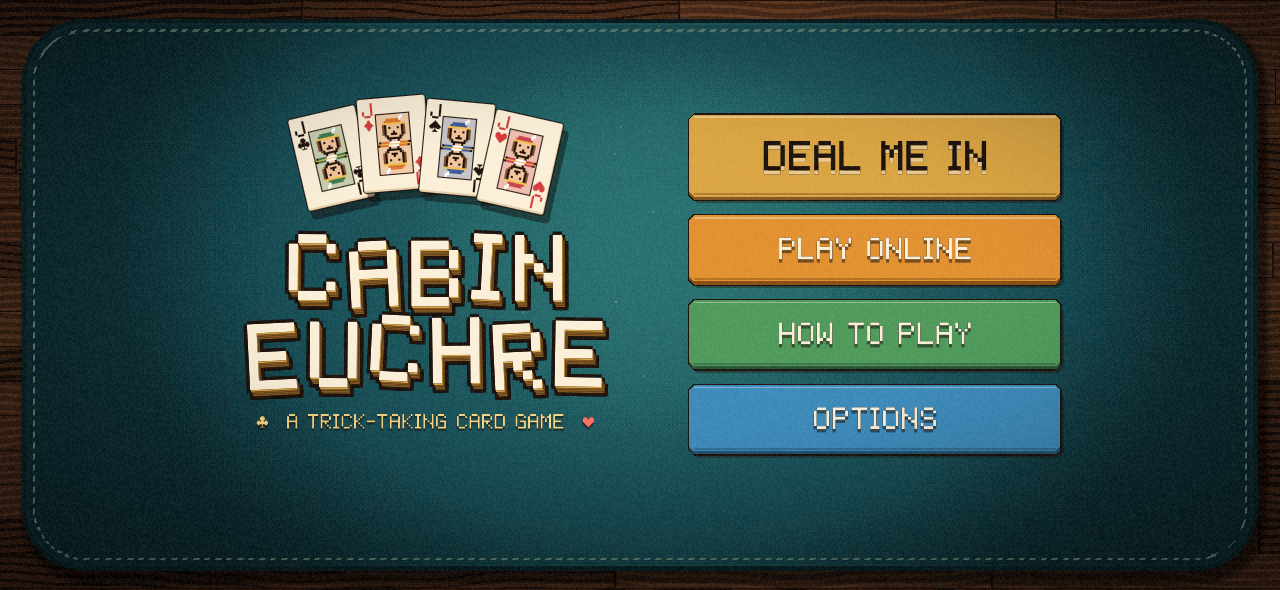
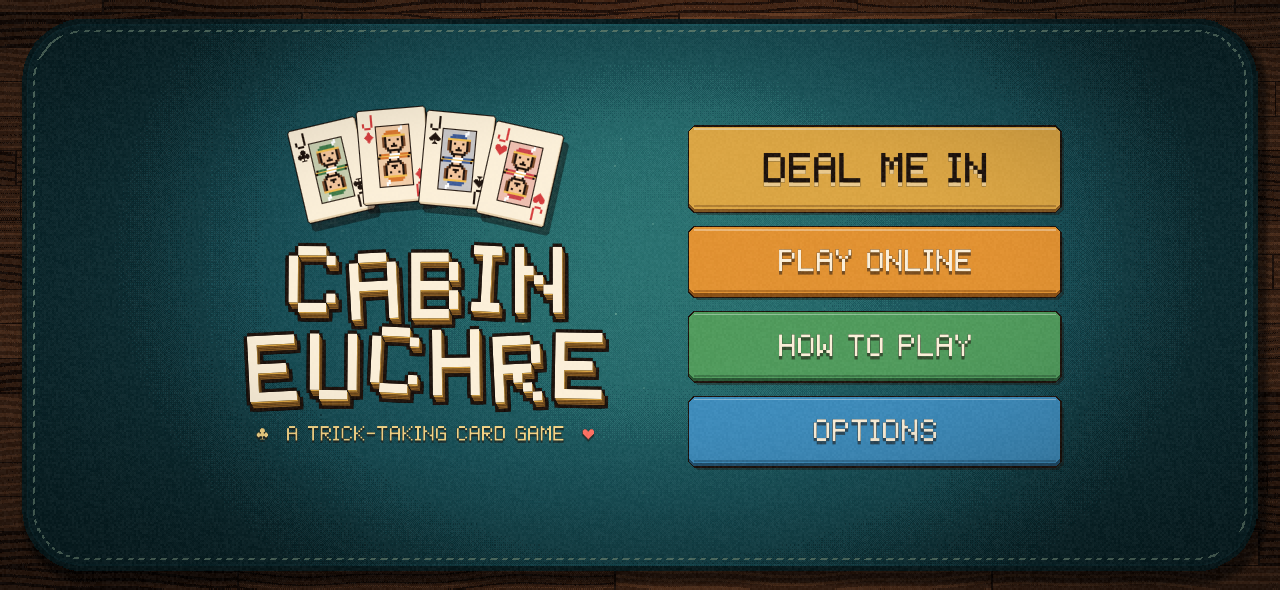
fix(mobile): center the view when no bottom bar is showing
Android always sets aside 24 dp for its gesture bar, which also pushed everything
above the screen's center. The reserved space now only sets the size and bounds,
and the view centers in what's really clear, gliding up if a bar appears. Retake
the phone and tablet screenshots without a pretend bar.

diff --git a/src/render.rs b/src/render.rs
@@ -83,16 +83,27 @@ impl View {
         View { offset, scale, visible: DESIGN_RECT }
     }
 
-    /// Phone: 640x360 as large as it fits inside the margins, with the canvas
-    /// covering the whole screen.
-    fn fit_safe(window_w: f32, window_h: f32, m: Margins) -> (Self, Rect) {
-        let Margins { side, top, bottom } = m;
+    /// Phone: how large 640x360 can be inside the margins. `reserved` includes
+    /// space for bars that aren't showing yet, so the size never changes when they do.
+    fn safe_scale(window_w: f32, window_h: f32, reserved: Margins) -> f32 {
+        let Margins { side, top, bottom } = reserved;
         let (usable_w, usable_h) = ((window_w - side * 2.0).max(1.0), (window_h - top - bottom).max(1.0));
-        let scale = (usable_w / VIEW_W as f32).min(usable_h / VIEW_H as f32);
-        let offset = vec2(
-            ((window_w - VIEW_W as f32 * scale) / 2.0).floor(),
-            (top + (usable_h - VIEW_H as f32 * scale) / 2.0).floor(),
-        );
+        (usable_w / VIEW_W as f32).min(usable_h / VIEW_H as f32)
+    }
+
+    /// Phone: where the top of 640x360 goes: centered in the space that's really
+    /// clear right now, so with no bar showing it's centered on the screen.
+    fn safe_y(window_h: f32, clear: Margins, scale: f32) -> f32 {
+        let usable_h = (window_h - clear.top - clear.bottom).max(1.0);
+        (clear.top + (usable_h - VIEW_H as f32 * scale) / 2.0).floor()
+    }
+
+    /// Phone: the design space at this scale and height, with the canvas covering
+    /// the whole screen. The returned bounds stay out of the `reserved` margins.
+    fn placed(window_w: f32, window_h: f32, reserved: Margins, scale: f32, y: f32) -> (Self, Rect) {
+        let Margins { side, top, bottom } = reserved;
+        let (usable_w, usable_h) = ((window_w - side * 2.0).max(1.0), (window_h - top - bottom).max(1.0));
+        let offset = vec2(((window_w - VIEW_W as f32 * scale) / 2.0).floor(), y);
         let visible = Rect::new(-offset.x / scale, -offset.y / scale, window_w / scale, window_h / scale);
         let bounds = Rect::new((side - offset.x) / scale, (top - offset.y) / scale, usable_w / scale, usable_h / scale);
         (View { offset, scale, visible }, bounds)
@@ -139,9 +150,14 @@ impl Margins {
 }
 
 /// Android's gesture bar comes and goes (it's hidden at launch, and appears
-/// with the first touch), so its height is set aside from the start.
+/// with the first touch), so its height is set aside from the start. Previews
+/// can do the same with `EUCHRE_RESERVE=24`.
 fn minimum_margins() -> Margins {
-    let bottom = if cfg!(target_os = "android") { 24.0 } else { 0.0 };
+    let bottom = if cfg!(target_os = "android") {
+        24.0
+    } else {
+        std::env::var("EUCHRE_RESERVE").ok().and_then(|v| v.parse().ok()).unwrap_or(0.0)
+    };
     Margins { bottom, ..Margins::default() }
 }
 
@@ -157,20 +173,51 @@ fn preview_safe(window_w: f32, window_h: f32) -> (f32, f32, f32, f32) {
     }
 }
 
-/// The window size [`Renderer::margins`] were found for, and the margins.
-type SeenMargins = ((f32, f32), Margins);
+/// Where a phone's view sits, remembered from frame to frame.
+#[derive(Debug, Clone, Copy, Default)]
+struct Placement {
+    /// The window size the rest was found for.
+    window: (f32, f32),
+    /// The bars and cutouts seen so far (not counting space set aside for later).
+    clear: Margins,
+    /// The view's height in the window. `None` until there's a window to fit.
+    y: Option<f32>,
+}
 
-/// The view for a window of this size, on this device. On a phone the margins
-/// only ever grow while the window keeps its size, so bars that come and go
-/// don't make the whole table jump.
-fn view_for(w: f32, h: f32, window: &Window, seen: &mut SeenMargins) -> View {
+impl Placement {
+    /// Takes in this frame's margins, which only ever grow while the window keeps
+    /// its size, so bars that come and go don't keep moving the game.
+    fn see(&mut self, window: (f32, f32), margins: Margins) {
+        if self.window == window {
+            self.clear = self.clear.at_least(margins);
+        } else {
+            *self = Placement { window, clear: margins, y: None };
+        }
+    }
+
+    /// Glides toward `target`, so a bar appearing moves the game smoothly.
+    fn glide(&mut self, target: f32, dt: f32) -> f32 {
+        let y = match self.y {
+            Some(y) if (y - target).abs() >= 0.5 => approach(y, target, 14.0, dt),
+            _ => target,
+        };
+        self.y = Some(y);
+        y.floor()
+    }
+}
+
+/// The view for a window of this size, on this device.
+fn view_for(w: f32, h: f32, window: &Window, placement: &mut Placement, dt: f32) -> View {
     if !device::mobile() {
         return View::fit(w, h);
     }
     let safe = if device::NATIVE_MOBILE { window.safe_area() } else { preview_safe(w, h) };
-    let margins = Margins::from_safe(w, h, safe).at_least(minimum_margins());
-    *seen = if seen.0 == (w, h) { ((w, h), seen.1.at_least(margins)) } else { ((w, h), margins) };
-    let (view, bounds) = View::fit_safe(w, h, seen.1);
+    placement.see((w, h), Margins::from_safe(w, h, safe));
+    let clear = placement.clear;
+    let reserved = clear.at_least(minimum_margins());
+    let scale = View::safe_scale(w, h, reserved);
+    let y = placement.glide(View::safe_y(h, clear, scale), dt);
+    let (view, bounds) = View::placed(w, h, reserved, scale, y);
     set_bounds(bounds);
     view
 }
@@ -183,14 +230,16 @@ pub struct Renderer {
     /// 0 = post-process off, 1 = full effect. Driven by the Atmosphere option.
     pub atmosphere: f32,
     view: View,
-    margins: SeenMargins,
+    placement: Placement,
+    /// `time` at the last [`Renderer::update`].
+    last_time: f32,
 }
 
 impl Renderer {
     pub fn new(g: &mut Graphics, window: &Window) -> Result<Self> {
         let (w, h) = g.dimensions();
-        let mut margins = ((w, h), Margins::default());
-        let view = view_for(w, h, window, &mut margins);
+        let mut placement = Placement::default();
+        let view = view_for(w, h, window, &mut placement, 0.0);
         let (cw, ch) = canvas_size(view, g.dpi_scale());
         Ok(Renderer {
             canvas: new_canvas(g, cw, ch),
@@ -199,7 +248,8 @@ impl Renderer {
             pixel: g.new_shader(include_str!("shaders/pixel.wgsl"))?,
             atmosphere: 1.0,
             view,
-            margins,
+            placement,
+            last_time: 0.0,
         })
     }
 
@@ -210,7 +260,9 @@ impl Renderer {
     /// Call once per frame from `update` before anything reads [`Renderer::view`].
     pub fn update(&mut self, g: &Graphics, window: &Window, time: f32) {
         let (w, h) = g.dimensions();
-        self.view = view_for(w, h, window, &mut self.margins);
+        let dt = (time - self.last_time).max(0.0);
+        self.last_time = time;
+        self.view = view_for(w, h, window, &mut self.placement, dt);
         let (cw, ch) = canvas_size(self.view, g.dpi_scale());
         let (cw, ch) = (cw as f32, ch as f32);
         self.background.send(0, [time, cw, ch, 0.0]);
@@ -278,4 +330,68 @@ fn new_canvas(g: &mut Graphics, w: u32, h: u32) -> Canvas {
     // Linear sampling is required by the lamplight shader's sharp-bilinear upscale.
     canvas.set_filter(FilterMode::Linear);
     canvas
+}
+
+#[cfg(test)]
+mod tests {
+    use super::*;
+
+    /// A phone in landscape with 24 units set aside at the bottom, as on Android.
+    const W: f32 = 1280.0;
+    const H: f32 = 590.0;
+    const RESERVED: Margins = Margins { side: 0.0, top: 0.0, bottom: 24.0 };
+
+    fn center_y(clear: Margins) -> f32 {
+        let scale = View::safe_scale(W, H, RESERVED);
+        View::safe_y(H, clear, scale) + VIEW_H as f32 * scale / 2.0
+    }
+
+    #[test]
+    fn no_bar_showing_centers_on_the_screen() {
+        assert!((center_y(Margins::default()) - H / 2.0).abs() <= 1.0);
+    }
+
+    #[test]
+    fn a_bar_showing_centers_above_it() {
+        assert!((center_y(RESERVED) - (H - RESERVED.bottom) / 2.0).abs() <= 1.0);
+    }
+
+    #[test]
+    fn the_size_stays_the_same_when_the_bar_appears() {
+        let scale = View::safe_scale(W, H, Margins::default().at_least(RESERVED));
+        assert_eq!(scale, View::safe_scale(W, H, RESERVED.at_least(RESERVED)));
+    }
+
+    #[test]
+    fn bounds_stay_out_of_the_reserved_space_wherever_the_view_sits() {
+        let scale = View::safe_scale(W, H, RESERVED);
+        for y in [0.0, 12.0] {
+            let (view, bounds) = View::placed(W, H, RESERVED, scale, y);
+            let bottom = view.offset.y + (bounds.y + bounds.h) * scale;
+            assert!((bottom - (H - RESERVED.bottom)).abs() < 0.01);
+        }
+    }
+
+    #[test]
+    fn a_bar_appearing_glides_and_then_settles() {
+        let mut p = Placement { y: Some(12.0), ..Placement::default() };
+        let first = p.glide(0.0, 1.0 / 60.0);
+        assert!(first > 0.0 && first < 12.0, "moves part of the way: {first}");
+        for _ in 0..120 {
+            p.glide(0.0, 1.0 / 60.0);
+        }
+        assert_eq!(p.y, Some(0.0));
+    }
+
+    #[test]
+    fn margins_only_grow_until_the_window_changes() {
+        let mut p = Placement::default();
+        p.see((W, H), RESERVED);
+        p.see((W, H), Margins::default());
+        assert_eq!(p.clear, RESERVED);
+        p.y = Some(5.0);
+        p.see((H, W), Margins::default());
+        assert_eq!(p.clear, Margins::default());
+        assert_eq!(p.y, None, "a new window size places the view right away");
+    }
 }

diff --git a/CLAUDE.md b/CLAUDE.md
@@ -36,7 +36,7 @@ cargo run -p euchre-core --example netcheck -- ws://127.0.0.1:8787 3   # play a 
 LOVE2DRS_SCREENSHOT=target/shots/x.png LOVE2DRS_SCREENSHOT_FRAME=60 cargo run   # render one frame to PNG and exit
 cargo love2drs android run -p cabin-euchre --abi x86_64   # build, install and start on an emulator (needs cargo-love2drs)
 cargo love2drs ios build -p cabin-euchre                  # on a Mac: builds the .app for the simulator
-EUCHRE_MOBILE=1 EUCHRE_WINDOW=1280x590 EUCHRE_SAFE=50,0,50,24 cargo run   # preview the phone layouts on the desktop
+EUCHRE_MOBILE=1 EUCHRE_WINDOW=1280x590 EUCHRE_SAFE=50,0,50,0 EUCHRE_RESERVE=24 cargo run   # preview the phone layouts on the desktop, like Android with no bar showing
 ```
 
 After any visual change, capture a screenshot and look at it. Scenes animate, so try a couple
@@ -45,7 +45,7 @@ slider's strength when turned back on) and F11 toggles fullscreen.
 
 The README's screenshots live in `docs/screenshots/`. They're seed 15 at frames like 340 (bidding) and
 1420 (a trick), with `EUCHRE_DEFAULT_SETTINGS=1 EUCHRE_FIXED_DT=1`. Phone shots use the preview command
-above, and the tablet shot uses `EUCHRE_WINDOW=1180x820 EUCHRE_SAFE=0,24,0,20`.
+above, and the tablet shot uses `EUCHRE_WINDOW=1180x820 EUCHRE_SAFE=0,0,0,0 EUCHRE_RESERVE=24`.
 
 ### Debug switches (environment variables)
 
@@ -65,7 +65,8 @@ the monitor's refresh rate.
 | `EUCHRE_DEFAULT_SETTINGS=1` | ignore (and never write) the settings file, the saved game and the remembered online seat, so screenshots don't depend on the player's options or a game they left |
 | `EUCHRE_MOBILE=1` | use the phone and tablet layouts on the desktop (read from the environment only) |
 | `EUCHRE_WINDOW=WxH` | start with this window size, for previewing other screen shapes |
-| `EUCHRE_SAFE=l,t,r,b` | with `EUCHRE_MOBILE`, pretend the OS's bars and cutouts take this much of each edge (window units) |
+| `EUCHRE_SAFE=l,t,r,b` | with `EUCHRE_MOBILE`, pretend the OS's bars and cutouts take this much of each edge (window units). A bottom of 24 is a gesture bar on screen, and the game centers above it |
+| `EUCHRE_RESERVE=n` | with `EUCHRE_MOBILE`, set aside n units at the bottom for a bar that isn't showing, as Android always does with 24 |
 
 These only work in debug builds, except `EUCHRE_SERVER`, which any build reads. Nothing can set
 environment variables on a phone, so debug builds there also read `KEY=value` lines
@@ -104,7 +105,8 @@ shows your order-up prompt. Seed 15 has you bid in both rounds, 24 has you disca
 | `src/settings.rs` | options persisted to `%APPDATA%\CabinEuchre\settings.txt` (or `~/.config/cabin-euchre/`) |
 | `src/savegame.rs` | the save slot, `savegame.txt` in the same folder: read, write (atomically), forget a finished game |
 | `src/assets.rs` | asset path lookup (cwd, crate root, exe dir) |
-| `tools/make_icon.py` | paints `assets/icon.png` (`python tools/make_icon.py`, needs Pillow). Keep its outer edge one flat color: Android fills around the icon with the corner color |
+| `tools/make_icon.py` | paints `assets/icon.png` and `assets/icon.ico` (`python tools/make_icon.py`, needs Pillow). Keep its outer edge one flat color: Android fills around the icon with the corner color |
+| `build.rs` | Windows only: embeds `assets/icon.ico` and the game's name in the `.exe` (needs `rc.exe` from the Windows SDK) |
 
 ### How the table works
 
@@ -215,8 +217,10 @@ shows your order-up prompt. Seed 15 has you bid in both rounds, 24 has you disca
   safe area in design coordinates. It can reach outside 640x360, so edge-anchored things (hand, MENU,
   score pad, trump medallion) use it. Anything drawn across the whole screen, like `ui::dim_screen`, has
   to cover more than 640x360 too.
-- **Margins only grow** while the window keeps its size, and Android starts with a 24 dp bottom floor:
-  its gesture bar appears after the first touch, and the table must not jump when it does.
+- **Margins only grow** while the window keeps its size, and Android always sets aside 24 dp at the bottom:
+  its gesture bar appears after the first touch, and the game's size must not change when it does. The
+  reserved space only affects the size and `bounds()`. The view centers in what's really clear
+  (`View::safe_y`), so with no bar showing it's centered on the screen, and it glides up if one appears.
 - **Touch targets** are about 40 design px tall plus `ui::TOUCH_SLOP`. One design px is roughly one dp.
 - **Lifecycle.** `Scene::background` runs when the app is sent away: offline games save, and online games
   keep their seat (the room's disconnect timer applies). Android's back gesture arrives as `Key::Escape`;
